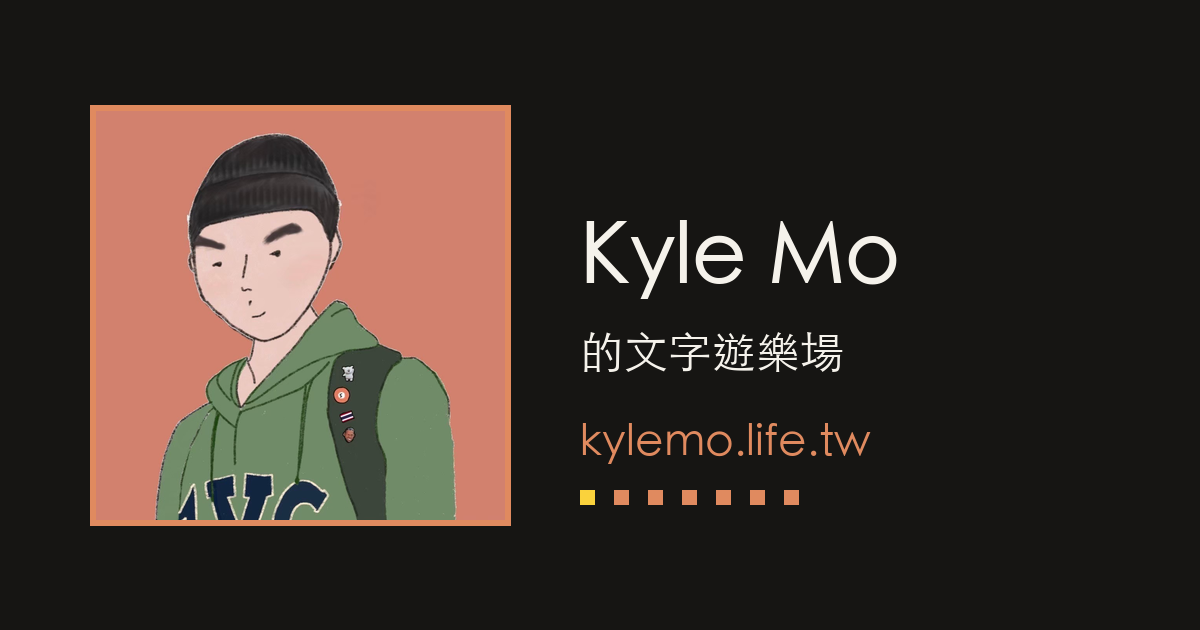
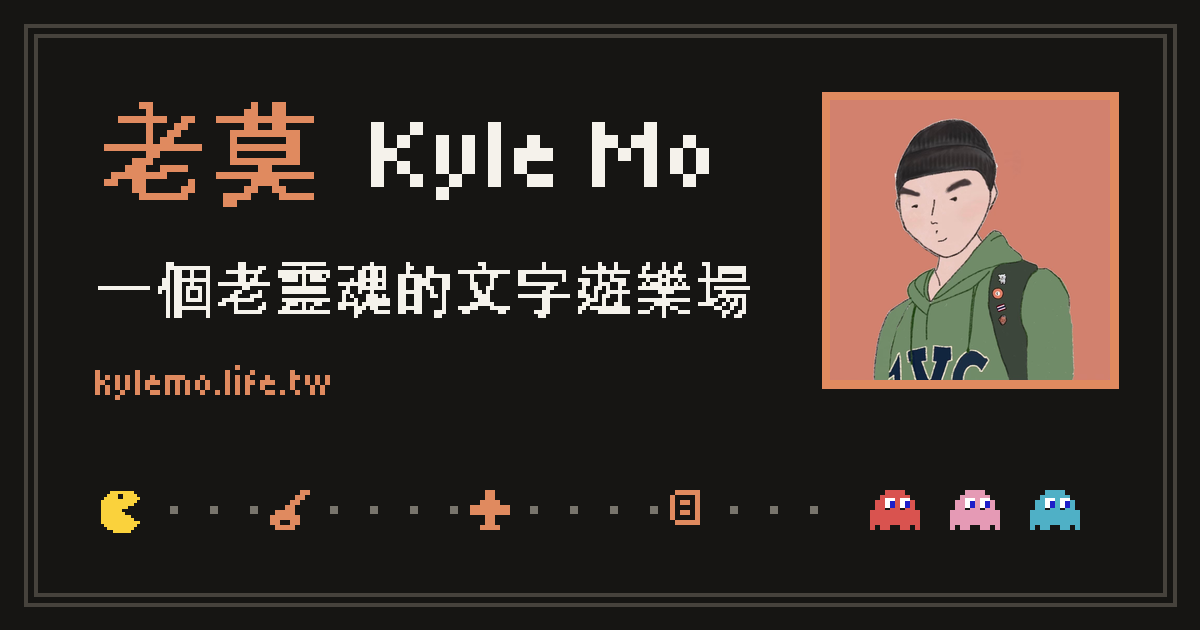
Share image redesign (pixel style) and new description
Claude-Session: https://claude.ai/code/session_011AV5FstBuAGwhPCbsbTPpd

diff --git a/index.html b/index.html
@@ -12,7 +12,7 @@
     <meta name="apple-mobile-web-app-title" content="kylemo" />
     <meta name="apple-mobile-web-app-status-bar-style" content="default" />
     <title>老莫 Kyle Mo | kylemo.life.tw</title>
-    <meta name="description" content="Kyle Mo 的文字遊樂場" />
+    <meta name="description" content="一個老靈魂的文字遊樂場" />
     <meta name="author" content="Kyle Mo" />
     <meta name="robots" content="index, follow" />
     <link rel="canonical" href="https://kylemo.me/" />
@@ -20,15 +20,15 @@
     <meta property="og:site_name" content="kylemo.life.tw" />
     <meta property="og:locale" content="zh_TW" />
     <meta property="og:title" content="老莫 Kyle Mo | kylemo.life.tw" />
-    <meta property="og:description" content="Kyle Mo 的文字遊樂場" />
+    <meta property="og:description" content="一個老靈魂的文字遊樂場" />
     <meta property="og:url" content="https://kylemo.me/" />
     <meta property="og:image" content="https://kylemo.me/og.png" />
     <meta property="og:image:width" content="1200" />
     <meta property="og:image:height" content="630" />
-    <meta property="og:image:alt" content="Kyle Mo 的文字遊樂場" />
+    <meta property="og:image:alt" content="一個老靈魂的文字遊樂場" />
     <meta name="twitter:card" content="summary_large_image" />
     <meta name="twitter:title" content="老莫 Kyle Mo | kylemo.life.tw" />
-    <meta name="twitter:description" content="Kyle Mo 的文字遊樂場" />
+    <meta name="twitter:description" content="一個老靈魂的文字遊樂場" />
     <meta name="twitter:image" content="https://kylemo.me/og.png" />
     <script type="application/ld+json">
       {
@@ -40,7 +40,7 @@
             "url": "https://kylemo.me/",
             "name": "kylemo.life.tw",
             "alternateName": "kylemo.me",
-            "description": "Kyle Mo 的文字遊樂場",
+            "description": "一個老靈魂的文字遊樂場",
             "inLanguage": ["zh-Hant-TW", "en"],
             "publisher": { "@id": "https://kylemo.me/#person" }
           },

diff --git a/src/data/i18n.ts b/src/data/i18n.ts
@@ -37,7 +37,7 @@ const zh = {
   'post.none': '還沒有文章。',
   'post.back': '所有文章',
   'page.about': '關於我',
-  'seo.home': 'Kyle Mo 的文字遊樂場',
+  'seo.home': '一個老靈魂的文字遊樂場',
   'seo.about': 'Kyle Mo（老莫）：資深軟體工程師、社群經理、作者。提供職涯諮詢、軟體接案、AI 顧問、講師邀約與社群營運。',
   'seo.blog': 'Kyle Mo 的文章：職涯、生活與數位遊牧的觀察和紀錄。',
   'nf.title': '不存在的頁面',
@@ -106,7 +106,7 @@ const en: Record<keyof typeof zh, string> = {
   'post.none': 'No posts yet.',
   'post.back': 'All posts',
   'page.about': 'About',
-  'seo.home': "Kyle Mo's playground of words",
+  'seo.home': "An old soul's playground of words",
   'seo.about': 'Kyle Mo (Old Mo): senior software engineer, community manager and author. Career consulting, freelance software, AI consulting, speaking and community management.',
   'seo.blog': "Kyle Mo's posts: notes on career, life and digital nomad living.",
   'nf.title': 'Page not found',
